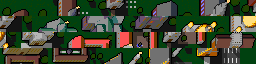
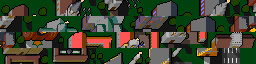
Churches: polish the chapel and mission, replace the basilica with a synagogue
The Country Chapel's front tower now has a clear open belfry with a hanging
bell and a sharp slate spire and gold cross, plus upright headstones in the
churchyard, so the belfry reads at game zoom.

The Mission Church's stepped bell wall stands in front of the nave with
three large dark arched niches and a gold bell in each, so the espadaña
and the bells are distinct in Classic, SVGA and Spooky.

Type 4 is no longer the Domed Basilica, which read as a mosque (a white
block under a great gold dome and gold cupolas). It is a Synagogue: a
brick hall with a slate roof, modest square twin towers with pyramidal
caps (no dome, no minaret-like towers), arched windows, a paved entry
court, and a gold Star of David — one in a dark circular window on the
south frontispiece, and a clearly readable one in the pavement.

Changed region(s): [[0.0, 0.25, 1.0, 0.75], [0.0, 0.0, 0.5625, 0.25], [0.7188, 0.7188, 0.75, 0.75]]

diff --git a/art/churches/make_churches.py b/art/churches/make_churches.py
@@ -88,6 +88,7 @@ CLASSIC = {
     "tree": (C_DGREEN, C_DGREEN, C_BLACK, C_BLACK),
     "trunk": (C_BROWN, C_BROWN, C_DGRAY, C_DGRAY),
     "concrete": (C_LGRAY, C_GRAY, C_DGRAY, C_BLACK),
+    "dark": (C_DGRAY, C_BLACK, C_BLACK, C_BLACK),
 }
 CLASSIC_GROUND = {
     "grass": C_GRASS, "grass_dot": C_DGREEN, "grass_sh": C_DGREEN,
@@ -95,6 +96,7 @@ CLASSIC_GROUND = {
     "asphalt": C_DGRAY, "asphalt_sh": C_BLACK, "line": C_WHITE, "line_sh": C_GRAY,
     "sand": C_DIRT, "sand_sh": C_BROWN, "water": C_LBLUE, "water_sh": C_BLUE,
     "grave": C_LGRAY, "grave_sh": C_GRAY, "flower": C_YELLOW, "flower_sh": C_ORANGE,
+    "star": C_YELLOW, "star_sh": C_ORANGE,
     "ink": C_BLACK,
 }
 
@@ -119,6 +121,7 @@ SVGA = {
     "tree": ((60, 150, 30), (20, 113, 10), (0, 81, 0), (0, 48, 0)),
     "trunk": ((113, 72, 40), (90, 56, 28), (65, 40, 20), (40, 24, 12)),
     "concrete": ((200, 200, 195), (160, 160, 155), (113, 113, 110), (69, 69, 65)),
+    "dark": ((40, 40, 48), (24, 24, 32), (16, 16, 20), (8, 8, 8)),
 }
 SVGA_GROUND = {
     "grass": (0, 113, 0), "grass_dot": (28, 113, 0), "grass_sh": (32, 65, 32),
@@ -126,6 +129,7 @@ SVGA_GROUND = {
     "asphalt": (69, 69, 69), "asphalt_sh": (40, 40, 40), "line": (227, 227, 227), "line_sh": (130, 130, 130),
     "sand": (255, 219, 182), "sand_sh": (255, 158, 125), "water": (60, 115, 210), "water_sh": (32, 65, 140),
     "grave": (170, 170, 170), "grave_sh": (100, 100, 100), "flower": (255, 210, 60), "flower_sh": (170, 120, 30),
+    "star": (255, 210, 60), "star_sh": (170, 120, 30),
     "ink": (0, 0, 0),
 }
 SPOOKY = dict(SVGA)
@@ -289,6 +293,122 @@ class Model:
         self.set(x - 1, y, z + tall - 2, mat)
         self.set(x + 1, y, z + tall - 2, mat)
 
+    def clear(self, x0, y0, x1, y1, z0, z1):
+        for x in range(x0, x1):
+            for y in range(y0, y1):
+                for z in range(z0, z1):
+                    self.vox.pop((x, y, z), None)
+                    self.norm.pop((x, y, z), None)
+
+    def _arch_top(self, i, i0, i1, z0, z1):
+        """Highest z of an arched opening spanning i0..i1 (half-open)."""
+        span = max(1, i1 - i0)
+        mid = i0 + span / 2.0
+        rx = span / 2.0
+        nx = (i + 0.5 - mid) / rx
+        if abs(nx) >= 1.0:
+            return z0
+        rise = min(span / 2.0, z1 - z0)
+        spring = z1 - rise
+        return min(z1, spring + rise * math.sqrt(max(0.0, 1.0 - nx * nx)))
+
+    def arch_ns(self, x0, y0, x1, y1, z0, z1):
+        """Clear an opening through north-south, arched in the x-z plane."""
+        for x in range(x0, x1):
+            top = int(math.ceil(self._arch_top(x, x0, x1, z0, z1)))
+            for y in range(y0, y1):
+                for z in range(z0, top):
+                    self.vox.pop((x, y, z), None)
+                    self.norm.pop((x, y, z), None)
+
+    def arch_ew(self, x0, y0, x1, y1, z0, z1):
+        """Clear an opening through west-east, arched in the y-z plane."""
+        for y in range(y0, y1):
+            top = int(math.ceil(self._arch_top(y, y0, y1, z0, z1)))
+            for x in range(x0, x1):
+                for z in range(z0, top):
+                    self.vox.pop((x, y, z), None)
+                    self.norm.pop((x, y, z), None)
+
+    def niche_s(self, x0, y_back, x1, y_front, z0, z1):
+        """South-facing arched recess; the wall at y_back stays and is darkened."""
+        self.arch_ns(x0, y_back + 1, x1, y_front, z0, z1)
+        self.south_face(x0, x1, y_back, z0, z1, "window")
+
+    def niche_w(self, x_front, y0, x_back, y1, z0, z1):
+        """West-facing arched recess; the wall at x_back stays and is darkened."""
+        self.arch_ew(x_front, y0, x_back, y1, z0, z1)
+        self.west_face(x_back, y0, y1, z0, z1, "window")
+
+    def hanging_bell(self, cx, cy, z0, z1):
+        """A small gold bell hanging in an opening, wider toward the lip."""
+        mid = z0 + max(1, (z1 - z0) // 3)
+        self.box(cx, cy, cx + 1, cy + 1, mid, z1, "bell")
+        self.box(cx - 1, cy, cx + 2, cy + 1, z0, mid, "bell")
+
+    def disc_south(self, cx, y, cz, r, mat, lift=1.0):
+        """Circle on the south face. lift stretches height so it still reads
+        round after the 3/4 projection."""
+        rz = r * lift
+        for x in range(int(cx - r) - 1, int(cx + r) + 2):
+            for z in range(int(cz - rz) - 1, int(cz + rz) + 2):
+                if ((x + 0.5 - cx) / r) ** 2 + ((z + 0.5 - cz) / rz) ** 2 <= 1.0:
+                    if self.has(x, y, z):
+                        self.vox[(x, y, z)] = mat
+
+    def star_of_david(self, cx, y, cz, radius, mat, lift=1.0):
+        """Upright hexagram on the south face, centred at (cx, cz).
+        lift stretches it in z so it looks even after the 3/4 projection."""
+        r = float(radius)
+        rz = r * lift
+        up = ((cx, cz + rz), (cx - r * 0.866, cz - rz * 0.5), (cx + r * 0.866, cz - rz * 0.5))
+        dn = ((cx, cz - rz), (cx - r * 0.866, cz + rz * 0.5), (cx + r * 0.866, cz + rz * 0.5))
+
+        def in_tri(px, pz, tri):
+            (ax, az), (bx, bz), (cx_, cz_) = tri
+            d = (bz - cz_) * (ax - cx_) + (cx_ - bx) * (az - cz_)
+            if d == 0:
+                return False
+            u = ((bz - cz_) * (px - cx_) + (cx_ - bx) * (pz - cz_)) / d
+            v = ((cz_ - az) * (px - cx_) + (ax - cx_) * (pz - cz_)) / d
+            return u >= 0 and v >= 0 and u + v <= 1
+
+        for x in range(int(cx - r) - 1, int(cx + r) + 2):
+            for z in range(int(cz - rz) - 1, int(cz + rz) + 2):
+                if in_tri(x + 0.5, z + 0.5, up) or in_tri(x + 0.5, z + 0.5, dn):
+                    if self.has(x, y, z):
+                        self.vox[(x, y, z)] = mat
+
+    def star_ground(self, cx, cy, radius, key="star"):
+        """Upright hexagram painted on the ground (no projection squash)."""
+        r = float(radius)
+        up = ((cx, cy + r), (cx - r * 0.866, cy - r * 0.5), (cx + r * 0.866, cy - r * 0.5))
+        dn = ((cx, cy - r), (cx - r * 0.866, cy + r * 0.5), (cx + r * 0.866, cy + r * 0.5))
+
+        def in_tri(px, py, tri):
+            (ax, ay), (bx, by), (cx_, cy_) = tri
+            d = (by - cy_) * (ax - cx_) + (cx_ - bx) * (ay - cy_)
+            if d == 0:
+                return False
+            u = ((by - cy_) * (px - cx_) + (cx_ - bx) * (py - cy_)) / d
+            v = ((cy_ - ay) * (px - cx_) + (ax - cx_) * (py - cy_)) / d
+            return u >= 0 and v >= 0 and u + v <= 1
+
+        for x in range(int(cx - r) - 1, int(cx + r) + 2):
+            for y in range(int(cy - r) - 1, int(cy + r) + 2):
+                if 0 <= x < S and 0 <= y < S and (in_tri(x + 0.5, y + 0.5, up) or in_tri(x + 0.5, y + 0.5, dn)):
+                    self.ground[y][x] = key
+
+    def arch_windows_s(self, x0, x1, y, z0, z1, step=3, mat="window"):
+        for x in range(x0, x1 - 1, step):
+            self.south_face(x, x + 2, y, z0, z1 - 1, mat)
+            self.south_face(x, x + 2, y, z1 - 1, z1, mat)
+
+    def arch_windows_w(self, x, y0, y1, z0, z1, step=3, mat="window"):
+        for y in range(y0, y1 - 1, step):
+            self.west_face(x, y, y + 2, z0, z1 - 1, mat)
+            self.west_face(x, y, y + 2, z1 - 1, z1, mat)
+
 
 # ---------------------------------------------------------------- render
 def surface_normal(m, x, y, z):
@@ -432,23 +552,30 @@ def to_image(keys, ramps, ground, pal8):
 # ---------------------------------------------------------------- churches
 def chapel(m):
     """Type 1, Country Chapel: a small white clapboard chapel with a brown
-    shingle roof, a belfry and short spire over the door, a gravel walk, a
-    churchyard of headstones and shade trees."""
-    m.paint(15, 41, 19, 48, "gravel")
-    for gx in (30, 34, 38):
-        for gy in (28, 33, 38):
-            m.paint(gx, gy, gx + 2, gy + 2, "grave")
-    m.gable_ns(10, 18, 24, 40, 0, 8, 7, "white", "shingle")
-    for y in range(21, 36, 4):
-        m.west_face(10, y, y + 2, 3, 6, "window")
-    m.box(14, 36, 20, 41, 0, 17, "white")
-    m.south_face(15, 19, 40, 0, 5, "door")
-    m.south_face(15, 19, 40, 12, 15, "bell")
-    m.pyramid(14, 36, 20, 41, 17, 9, "slate")
-    m.cross(17, 38, 26, tall=3)
-    m.tree(4, 14, 3)
-    m.tree(40, 16, 3)
-    m.tree(4, 40, 3)
+    shingle roof, a square belfry with open arches and a visible bell, and a
+    short pointed spire over the door, a gravel walk, a churchyard of
+    headstones and shade trees."""
+    m.paint(14, 42, 22, 48, "gravel")
+    for gx, gy in ((30, 26), (35, 26), (40, 26), (30, 32), (36, 32), (41, 32), (32, 38), (38, 38)):
+        m.paint(gx, gy, gx + 2, gy + 2, "grave")
+        m.box(gx, gy, gx + 1, gy + 1, 0, 3, "stone")
+    m.gable_ns(8, 14, 24, 36, 0, 9, 7, "white", "shingle")
+    for y in range(17, 32, 5):
+        m.west_face(8, y, y + 2, 3, 7, "window")
+    # Tower at the front: a door in the shaft, a slightly inset open belfry,
+    # then a sharp slate spire and a gold cross.
+    m.box(12, 34, 20, 42, 0, 14, "white")
+    m.south_face(14, 18, 41, 0, 6, "door")
+    m.box(13, 35, 19, 41, 14, 18, "white")
+    m.box(12, 34, 20, 42, 18, 25, "white")
+    m.niche_s(14, 34, 18, 42, 19, 25)
+    m.niche_w(12, 36, 13, 40, 19, 25)
+    m.hanging_bell(16, 40, 19, 24)
+    m.cone(16, 38, 4.0, 25, 13, "slate")
+    m.cross(16, 38, 38, tall=4)
+    m.tree(3, 12, 3)
+    m.tree(40, 14, 3)
+    m.tree(3, 40, 3)
     m.tree(42, 44, 2)
 
 
@@ -504,64 +631,76 @@ def cathedral(m):
     m.tree(3, 42, 2)
 
 
-def basilica(m):
-    """Type 4, Domed Basilica: a square white church under a great gold dome
-    on a windowed drum, with four gold-capped corner cupolas and a columned
-    porch with a pediment, on a paved square."""
-    m.paint(5, 43, 36, 48, "path")
-    m.box(6, 14, 34, 40, 0, 10, "white")
-    for x in range(8, 33, 3):
-        m.south_face(x, x + 1, 39, 4, 8, "window")
-    for y in range(16, 39, 3):
-        m.west_face(6, y, y + 1, 4, 8, "window")
-    m.cylinder(20, 27, 7.5, 10, 15, "white")
-    for x in range(14, 27, 2):
-        for y in (33, 34):
-            m.south_face(x, x + 1, y, 11, 14, "window")
-    m.dome(20, 27, 15, 8, "gold", squash=1.1)
-    m.cylinder(20, 27, 1.6, 23, 27, "white")
-    m.cross(20, 27, 27, tall=3)
-    for cx, cy in ((8.5, 16.5), (31.5, 16.5), (8.5, 37.5), (31.5, 37.5)):
-        m.cylinder(cx, cy, 2.2, 10, 13, "white")
-        m.dome(cx, cy, 13, 2.2, "gold")
-    m.gable_ns(13, 40, 27, 45, 0, 8, 4, "white", "white")
-    for x in range(14, 27, 2):
-        m.south_face(x, x + 1, 44, 0, 7, "window")
-    m.south_face(18, 22, 44, 0, 4, "door")
-    m.tree(42, 18, 3)
-    m.tree(42, 36, 3)
+def synagogue(m):
+    """Type 4, Synagogue: a brick hall with a dark slate roof, modest square
+    twin towers with pyramidal caps, a paved entry court and steps,
+    round-arched windows, and a large gold Star of David in a dark circular
+    window on a thin south frontispiece, with another star in the pavement.
+    No dome and no minaret-like towers."""
+    m.paint(10, 40, 36, 48, "path")
+    m.star_ground(21.5, 41.5, 6, "ink")
+    m.star_ground(21.5, 41.5, 4.8, "star")
+    # Hall sits south enough that the roof stays on the sheet.
+    m.gable_ns(10, 12, 33, 34, 0, 12, 8, "brick", "slate")
+    m.arch_windows_w(10, 14, 32, 4, 10, step=4)
+    for x0 in (6, 29):
+        m.box(x0, 28, x0 + 8, 40, 0, 20, "brick")
+        m.south_face(x0 + 2, x0 + 3, 39, 6, 12, "window")
+        m.south_face(x0 + 5, x0 + 6, 39, 6, 12, "window")
+        m.south_face(x0 + 3, x0 + 5, 39, 13, 16, "window")
+        m.west_face(x0, 30, 38, 6, 12, "window")
+        m.pyramid(x0, 28, x0 + 8, 40, 20, 6, "slate")
+    # Porch and door. The frontispiece above it is one voxel deep so the
+    # circular window and star are seen on the south face, not as a lid.
+    m.box(16, 34, 27, 40, 0, 10, "brick")
+    m.south_face(19, 24, 39, 0, 6, "door")
+    lift = 1.0 / RISE
+    m.box(16, 39, 27, 40, 10, 23, "brick")
+    m.disc_south(21, 39, 16, 5.2, "dark", lift=lift)
+    m.star_of_david(21, 39, 16, 4.2, "gold", lift=lift)
+    m.tree(2, 16, 3)
+    m.tree(42, 16, 3)
+    m.tree(2, 42, 3)
+    m.tree(43, 42, 2)
 
 
 def mission(m):
     """Type 5, Mission Church: a whitewashed adobe hall with a red clay-tile
-    roof and a stepped bell wall carrying three bells, beside an arcaded
-    sand courtyard with a fountain and two trees."""
-    m.paint(18, 14, 40, 44, "sand")
-    m.gable_ew(18, 10, 42, 15, 0, 5, 2, "white", "terra")
-    m.gable_ns(37, 15, 42, 44, 0, 5, 2, "white", "terra")
-    for x in range(19, 36, 3):
-        m.south_face(x, x + 2, 14, 0, 3, "window")
-    for y in range(17, 43, 3):
-        m.west_face(37, y, y + 2, 0, 3, "window")
+    roof and a tall stepped bell wall (espadaña) with three arched openings
+    and hanging bells, beside an arcaded sand courtyard with a fountain and
+    two trees."""
+    m.paint(20, 12, 44, 44, "sand")
+    m.gable_ew(20, 8, 44, 14, 0, 5, 2, "white", "terra")
+    m.gable_ns(38, 14, 44, 42, 0, 5, 2, "white", "terra")
+    for x in range(22, 37, 3):
+        m.south_face(x, x + 2, 13, 0, 4, "window")
+    for y in range(16, 41, 3):
+        m.west_face(38, y, y + 2, 0, 4, "window")
     for dy in range(-2, 3):
         for dx in range(-3, 4):
             if dx * dx / 9.0 + dy * dy / 4.0 <= 1.0:
-                m.ground[29 + dy][27 + dx] = "water" if abs(dx) < 3 and abs(dy) < 2 else "path"
-    m.cylinder(27.5, 29.5, 0.8, 0, 3, "white")
-    m.tree(22, 40, 2)
-    m.tree(32, 20, 2)
-    m.gable_ns(4, 12, 16, 40, 0, 9, 5, "white", "terra")
-    for y in range(15, 37, 5):
+                m.ground[28 + dy][29 + dx] = "water" if abs(dx) < 3 and abs(dy) < 2 else "path"
+    m.cylinder(29.5, 28.5, 0.8, 0, 3, "white")
+    m.tree(24, 38, 2)
+    m.tree(34, 18, 2)
+    m.gable_ns(4, 8, 18, 36, 0, 9, 5, "white", "terra")
+    for y in range(11, 33, 5):
         m.west_face(4, y, y + 1, 4, 7, "window")
-    m.box(3, 39, 15, 42, 0, 13, "white")
-    m.box(5, 39, 13, 42, 13, 17, "white")
-    m.box(7, 39, 11, 42, 17, 19, "white")
-    m.south_face(7, 11, 41, 0, 5, "door")
-    for bx, bz in ((5, 9), (11, 9), (8, 14)):
-        m.south_face(bx, bx + 2, 41, bz, bz + 2, "window")
-        m.south_face(bx, bx + 2, 41, bz, bz + 1, "bell")
-    m.cross(9, 40, 19, tall=3)
-    m.paint(7, 42, 11, 48, "sand")
+    # Free-standing stepped bell wall, wider than the nave, with large dark
+    # arched niches and a gold bell hanging in each.
+    m.box(1, 38, 21, 43, 0, 11, "white")
+    m.south_face(9, 13, 42, 0, 6, "door")
+    m.box(4, 38, 18, 43, 11, 18, "white")
+    m.niche_s(5, 38, 9, 43, 12, 18)
+    m.niche_s(13, 38, 17, 43, 12, 18)
+    m.hanging_bell(7, 41, 12, 17)
+    m.hanging_bell(15, 41, 12, 17)
+    m.box(7, 38, 15, 43, 18, 26, "white")
+    m.niche_s(9, 38, 13, 43, 19, 26)
+    m.hanging_bell(11, 41, 19, 25)
+    m.box(9, 38, 13, 43, 26, 28, "white")
+    m.cross(11, 40, 28, tall=4)
+    m.paint(8, 43, 14, 48, "sand")
     m.tree(44, 8, 2)
 
 
@@ -627,7 +766,7 @@ CHURCHES = [
     (1, "Country Chapel", chapel),
     (2, "Steeple Church", steeple_church),
     (3, "Cathedral", cathedral),
-    (4, "Domed Basilica", basilica),
+    (4, "Synagogue", synagogue),
     (5, "Mission Church", mission),
     (6, "Abbey", abbey),
     (7, "Modern Church", modern_church),
